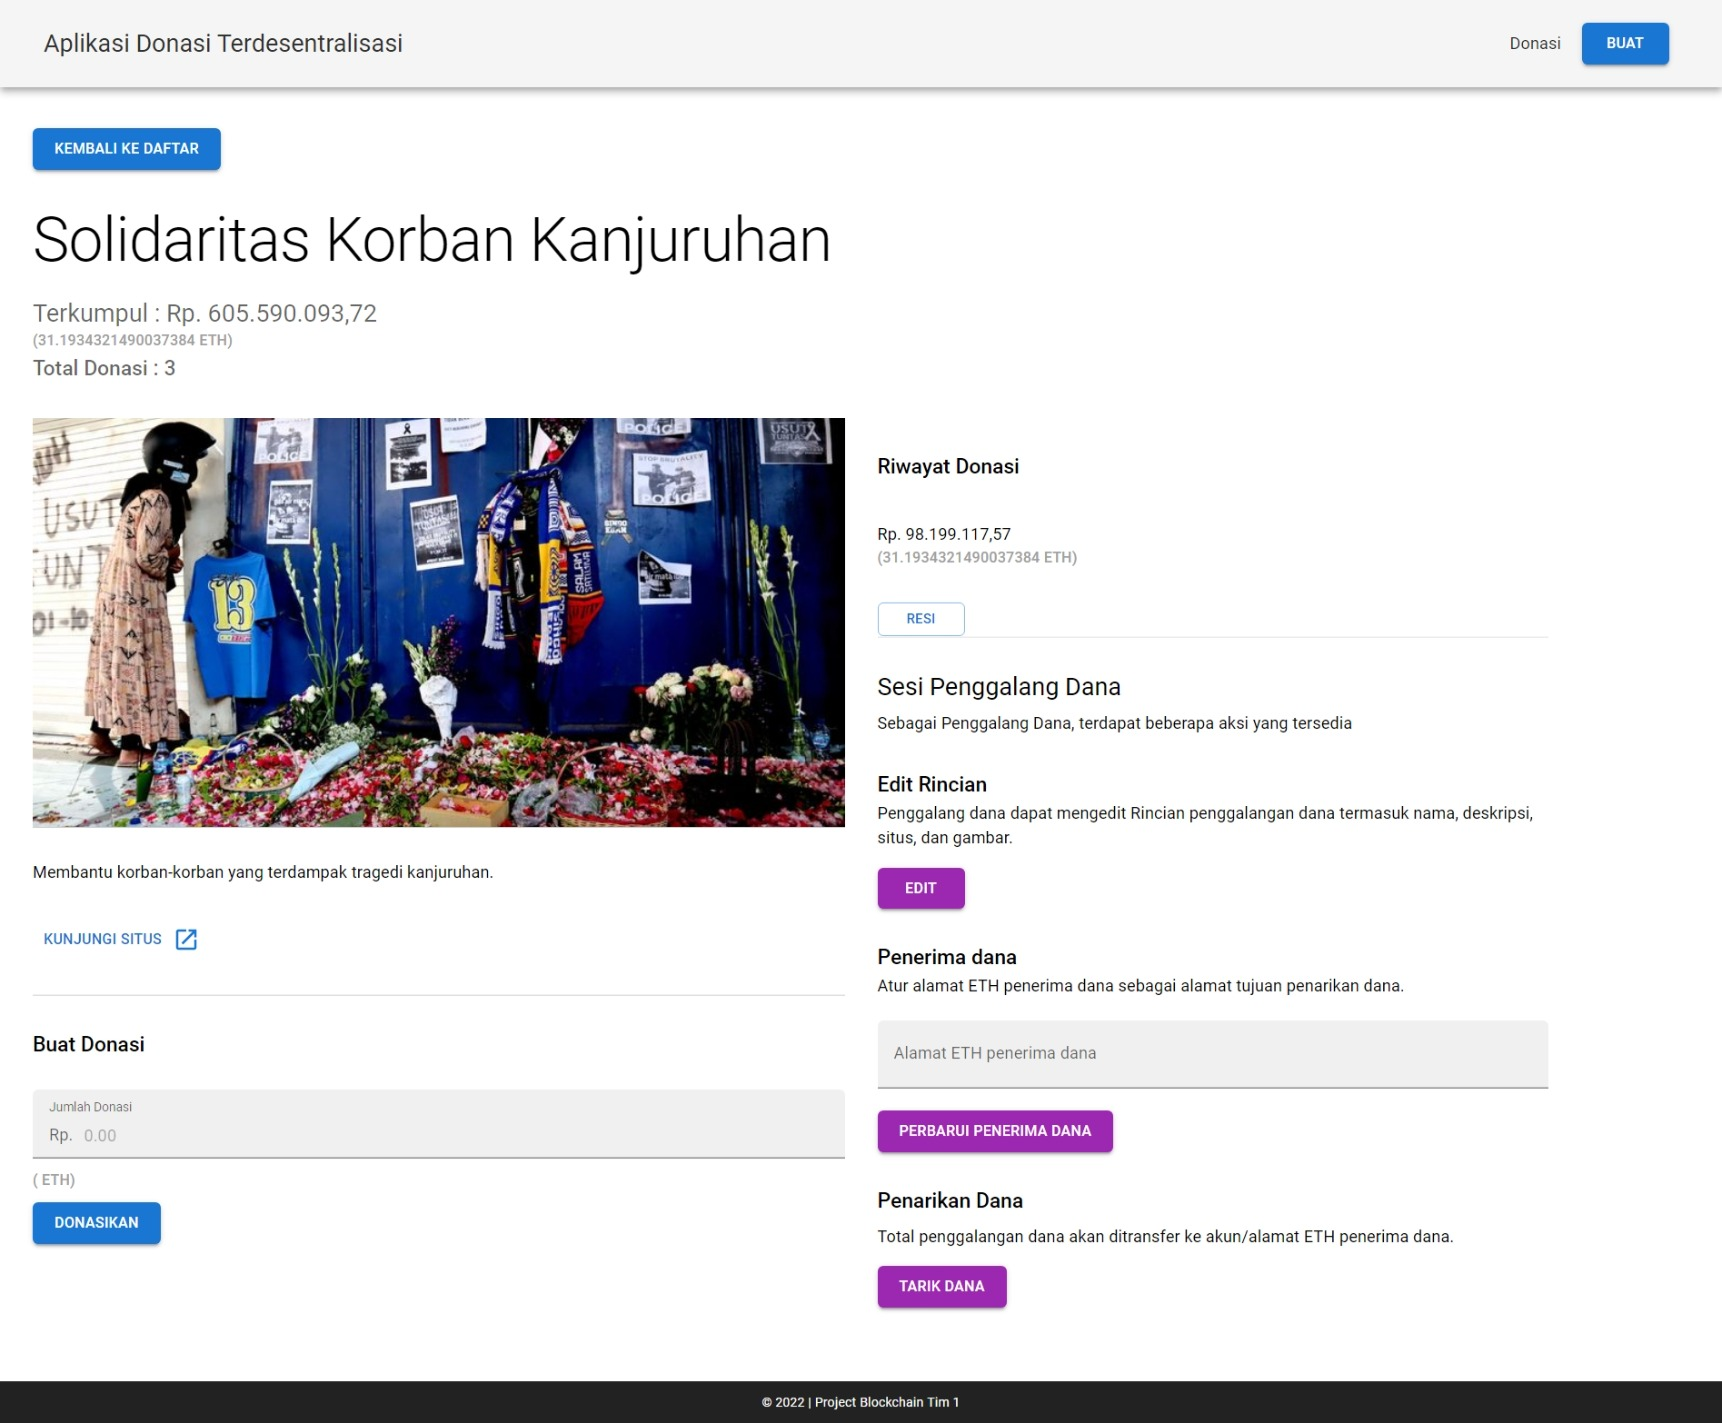
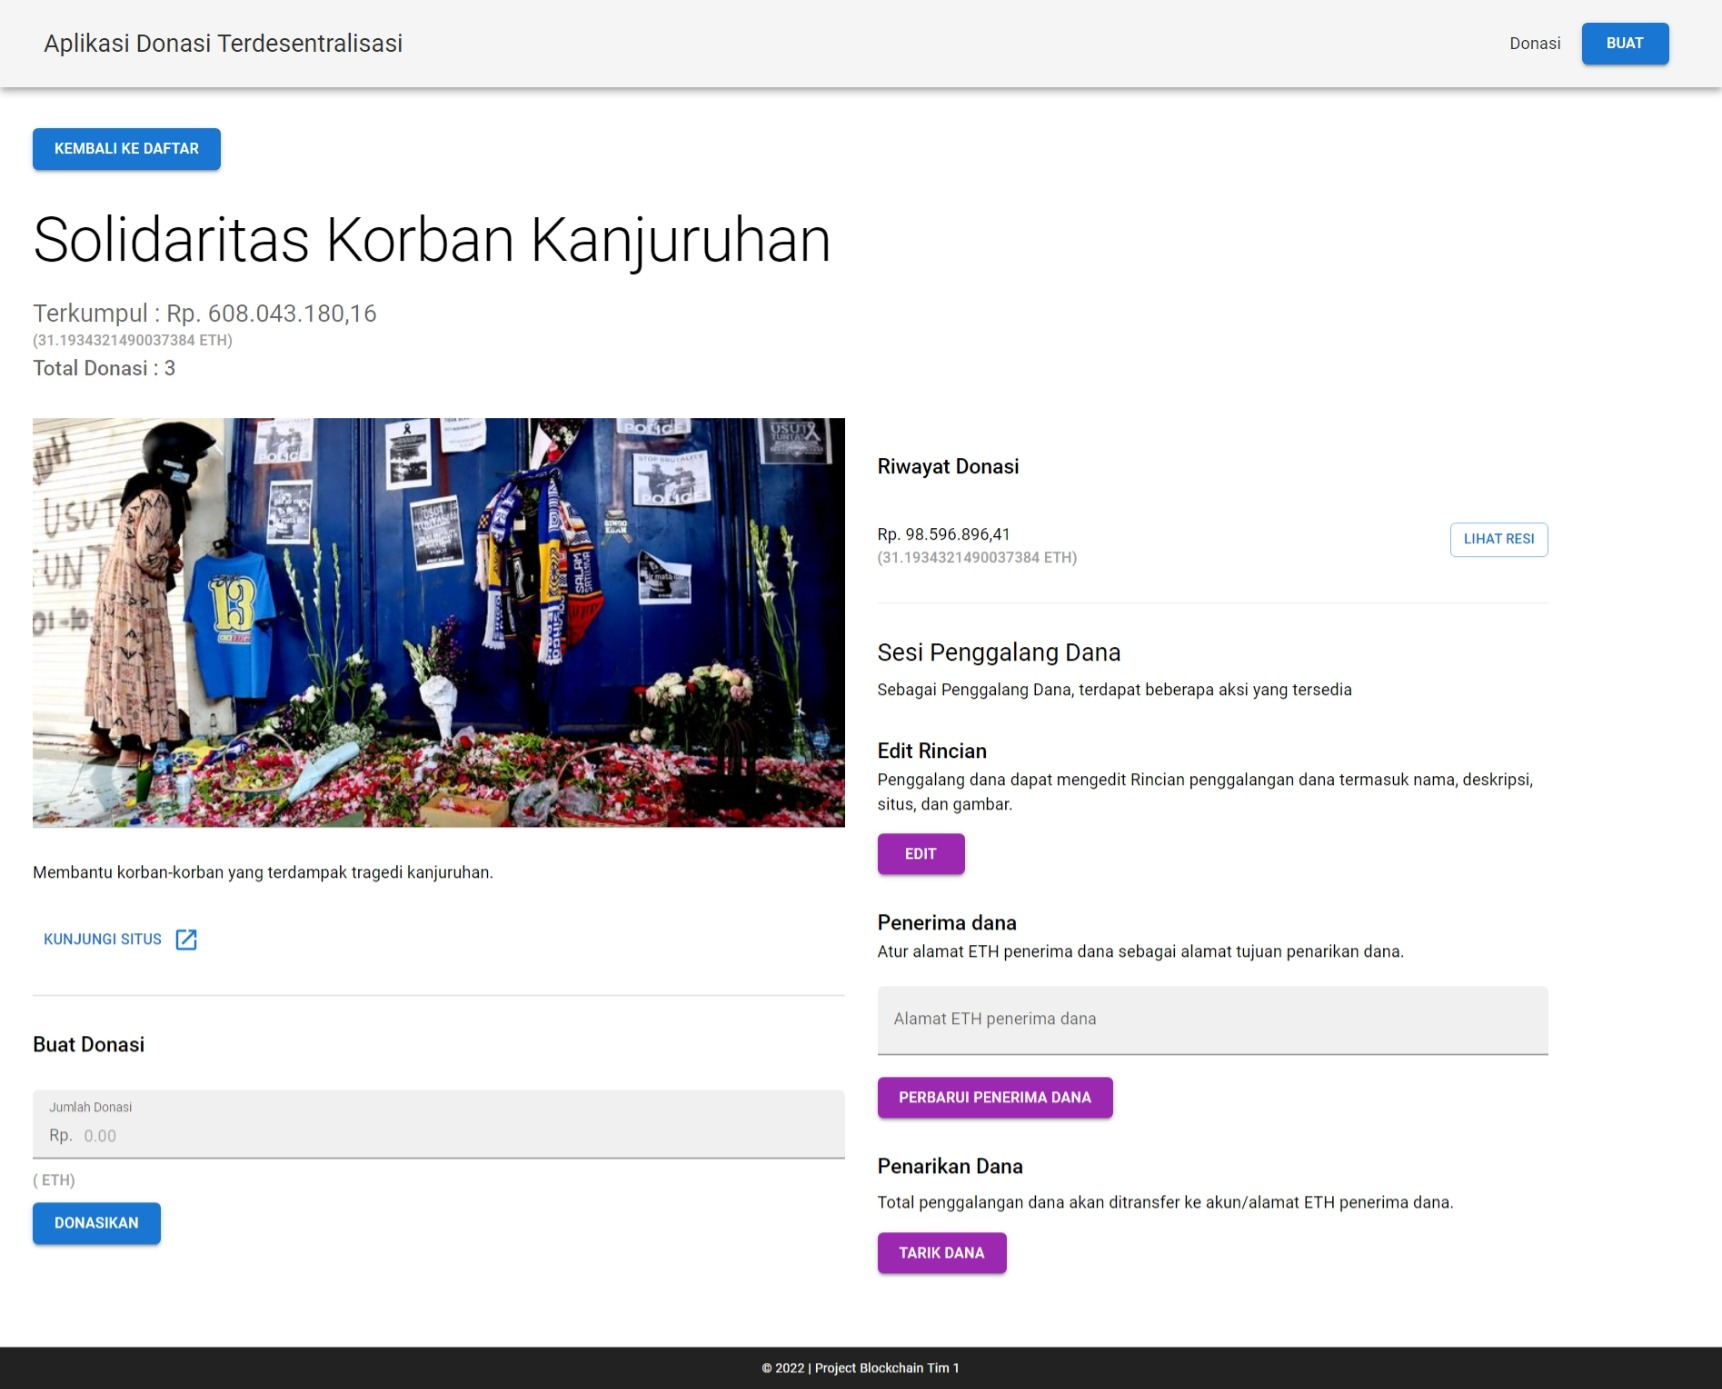
fix resi dan tambah komen di kontrak

diff --git a/client/src/components/FundraiserDetails.js b/client/src/components/FundraiserDetails.js
@@ -121,6 +121,7 @@ const FundraisersDetails = () => {
 		}
 	}, accounts)
 	/* eslint-enable react-hooks/exhaustive-deps */
+	
 
 	const init = async () => {
 		try {
@@ -143,6 +144,7 @@ const FundraisersDetails = () => {
 			const donationsCount = await fundContract.methods.donationsCount().call()
 			const donationAmountETH = await web3.utils.fromWei(donationAmount, 'ether')
 			const donationAmountIDR = xRate.IDR * donationAmountETH
+			// const accounts = await web3.eth.getAccounts()
 			setExchangeRate(xRate)
 			setDonationAmount(donationAmountIDR)
 			setDonationAmountEth(donationAmountETH)
@@ -303,6 +305,31 @@ const FundraisersDetails = () => {
 				</Box>
 			)
 
+		// return donationsList.map(donation => (
+		// 	<Fragment key={donation.date}>
+		// 		<Box sx={styles.donationRow}>
+		// 			<Box>
+		// 				<Typography>Rp. {donation.donationAmountIDR}</Typography>
+		// 				<Typography sx={styles.ethAmount}>({donationAmountEth} ETH)</Typography>
+		// 			</Box>
+		// 		</Box>
+		// 		<Link
+		// 				className="donation-receipt-link"
+		// 				to="/receipts"
+		// 				state={{
+		// 					donation: donation.donationAmountIDR,
+		// 					date: donation.date,
+		// 					fundName: details.name,
+		// 					acc: donation.userAcct,
+		// 				}}
+		// 			>
+		// 				<Button variant="outlined" color="primary" size="small">
+		// 					Resi
+		// 				</Button>
+		// 			</Link>
+		// 		<Divider light />
+		// 	</Fragment>
+		// ))
 		return donationsList.map(donation => (
 			<Fragment key={donation.date}>
 				<Box sx={styles.donationRow}>
@@ -310,20 +337,20 @@ const FundraisersDetails = () => {
 						<Typography>Rp. {donation.donationAmountIDR}</Typography>
 						<Typography sx={styles.ethAmount}>({donationAmountEth} ETH)</Typography>
 					</Box>
-				</Box>
-				<Link
+					<Link
 						className="donation-receipt-link"
 						to="/receipts"
 						state={{
-							donation: donation.donationAmount,
+							donation: donation.donationAmountIDR,
 							date: donation.date,
 							fundName: details.name,
 						}}
 					>
 						<Button variant="outlined" color="primary" size="small">
-							Resi
+							Lihat Resi
 						</Button>
 					</Link>
+				</Box>
 				<Divider light />
 			</Fragment>
 		))

diff --git a/client/src/components/Receipts.js b/client/src/components/Receipts.js
@@ -29,7 +29,7 @@ const Receipts = () => {
 	useEffect(() => {
 		if (location.state) {
 			const { donation, date, fundName } = location.state
-			const formattedDate = new Date(parseInt(date))
+			const formattedDate = new Date(parseInt(date * 1000))
 			setDonation(donation)
 			setDate(formattedDate.toLocaleDateString())
 			setFundName(fundName)
